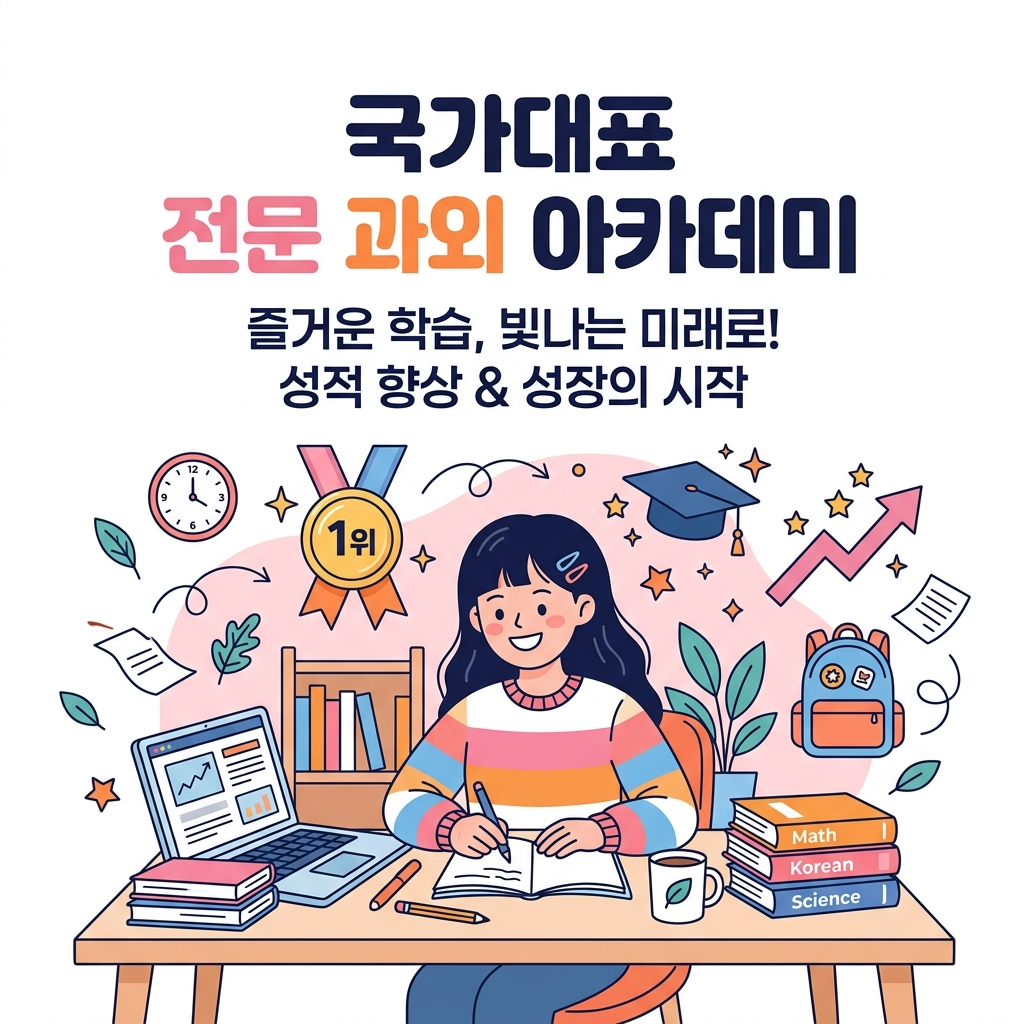
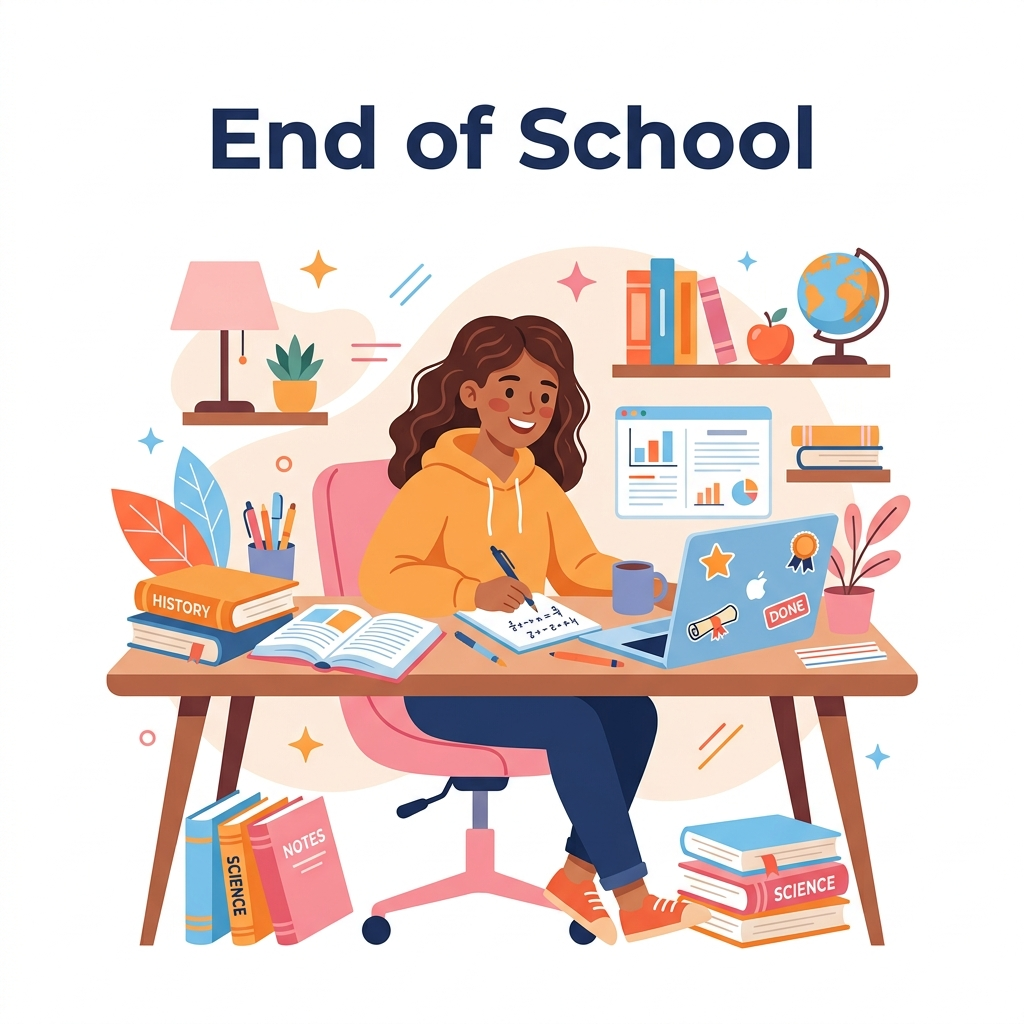
feat_og_update_opt2

diff --git a/app/layout.tsx b/app/layout.tsx
@@ -4,11 +4,11 @@ import Header from "../components/Header";
 import Footer from "../components/Footer";
 
 export const metadata: Metadata = {
-  title: "엑설런스 아카데미 | 1:1 맞춤지도 초중고 영수전문학원",
-  description: "초·중·고 1:1 밀착형 개별 맞춤지도 영수 전문 엑설런스 아카데미입니다. 학생 개개인의 수준 분석과 맞춤 피드백을 통해 확실한 성적 향상을 이끕니다.",
+  title: "성적이 오르는 1:1 영수전문, 엑설런스 아카데미",
+  description: "우리 아이만을 위한 맞춤 학습 솔루션! 체계적인 커리큘럼과 밀착 오답 관리를 통해 기초 확립부터 심화 정복까지 빈틈없이 지도합니다.",
   openGraph: {
-    title: "엑설런스 아카데미 | 1:1 맞춤지도 초중고 영수전문학원",
-    description: "초·중·고 1:1 밀착형 개별 맞춤지도 영수 전문 엑설런스 아카데미입니다. 학생 개개인의 수준 분석과 맞춤 피드백을 통해 확실한 성적 향상을 이끕니다.",
+    title: "성적이 오르는 1:1 영수전문, 엑설런스 아카데미",
+    description: "우리 아이만을 위한 맞춤 학습 솔루션! 체계적인 커리큘럼과 밀착 오답 관리를 통해 기초 확립부터 심화 정복까지 빈틈없이 지도합니다.",
     images: [
       {
         url: "/og-image.png",
